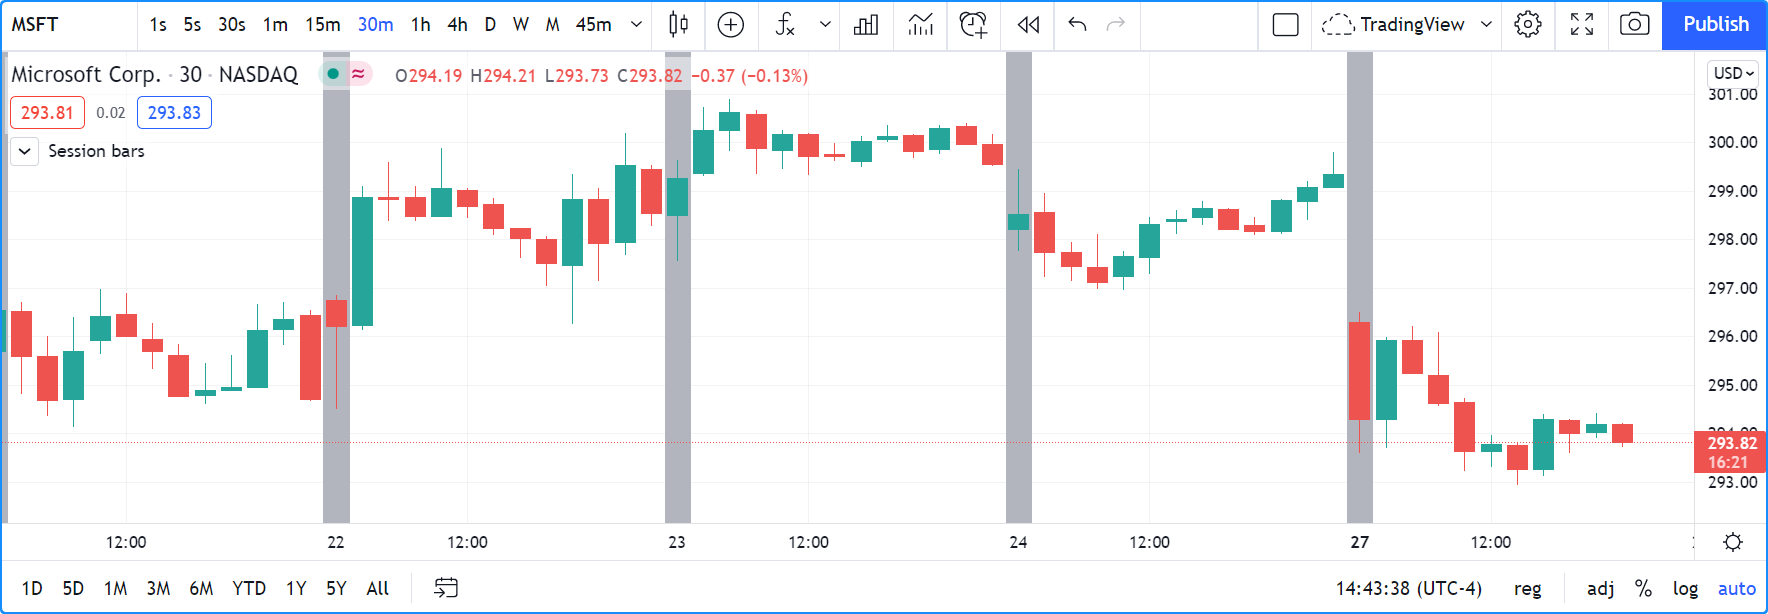
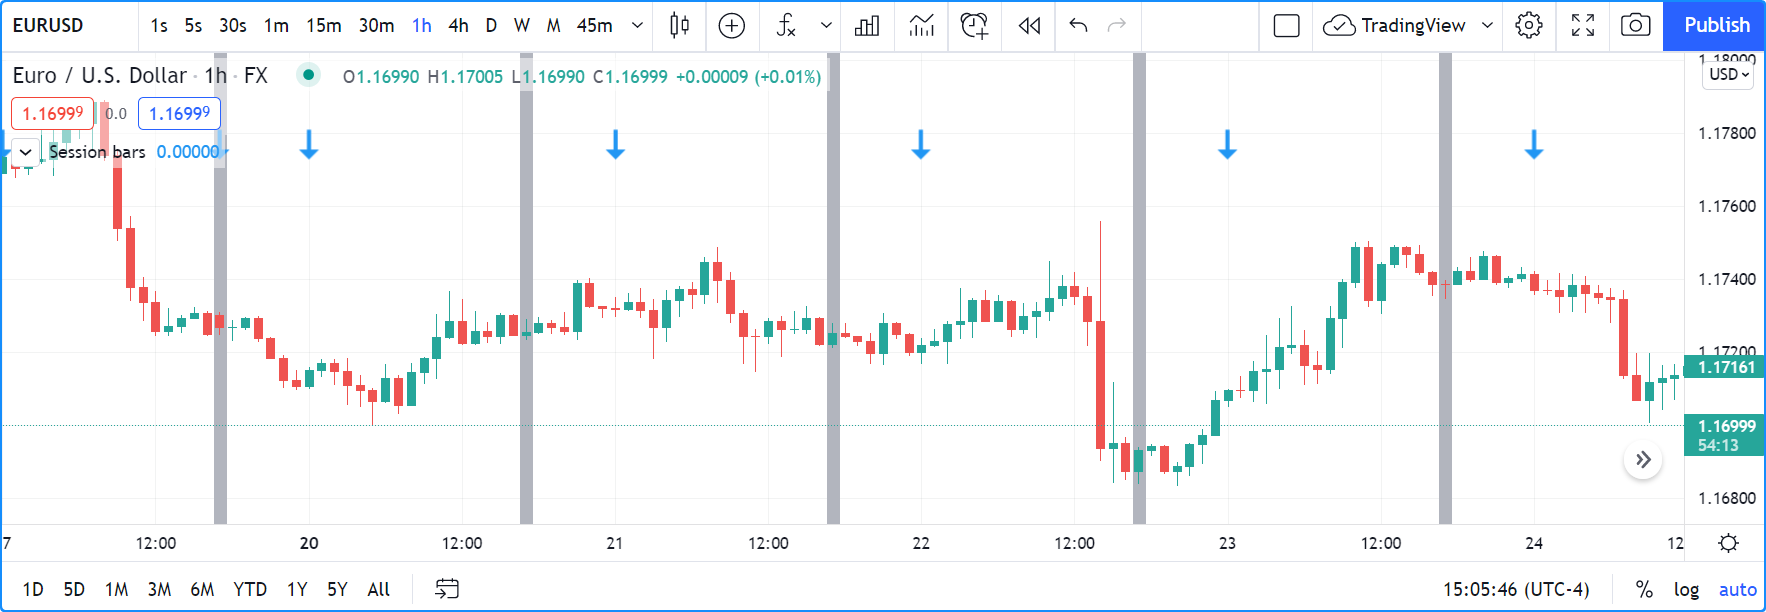
a

diff --git a/source/concepts/Time.rst b/source/concepts/Time.rst
@@ -374,10 +374,24 @@ even if the chart is at an intraday timeframe such as 1H::
 
     //@version=5
     indicator("Session bars", "", true)
-    newDay = ta.change(time("D"))
+    bool newDay = ta.change(time("D"))
     bgcolor(newDay ? color.silver : na)
+    
+    newExchangeDay = ta.change(dayofmonth)
+    plotchar(newExchangeDay, "newExchangeDay", "🠇", location.top, size = size.small)
 
 .. image:: images/Time-TestingForChangesInHTF-01.png
+
+Note that:
+
+- The ``newDay`` variable detects changes in the opening time of 1D bars, so it follows the conventions for the chart's symbol,
+  which uses overnight sessions of 17:00 to 17:00. It changes values when a new session comes in.
+- Because ``newExchangeDay`` detects change in `dayofmonth <https://www.tradingview.com/pine-script-reference/v5/#var_dayofmonth>`__
+  in the calendar day, it changes when the day changes on the chart.
+- The two change detection methods do not coincide on the chart, except when there are days without trading.
+  On Sundays here, for example, both detection methods will detect a change because the calendar day changes from the last trading day (Friday)
+  to the first calendar day of the new week, Sunday, which is when the Monday's overnight session begins at 17:00.
+
 
 
 Calendar dates and times
